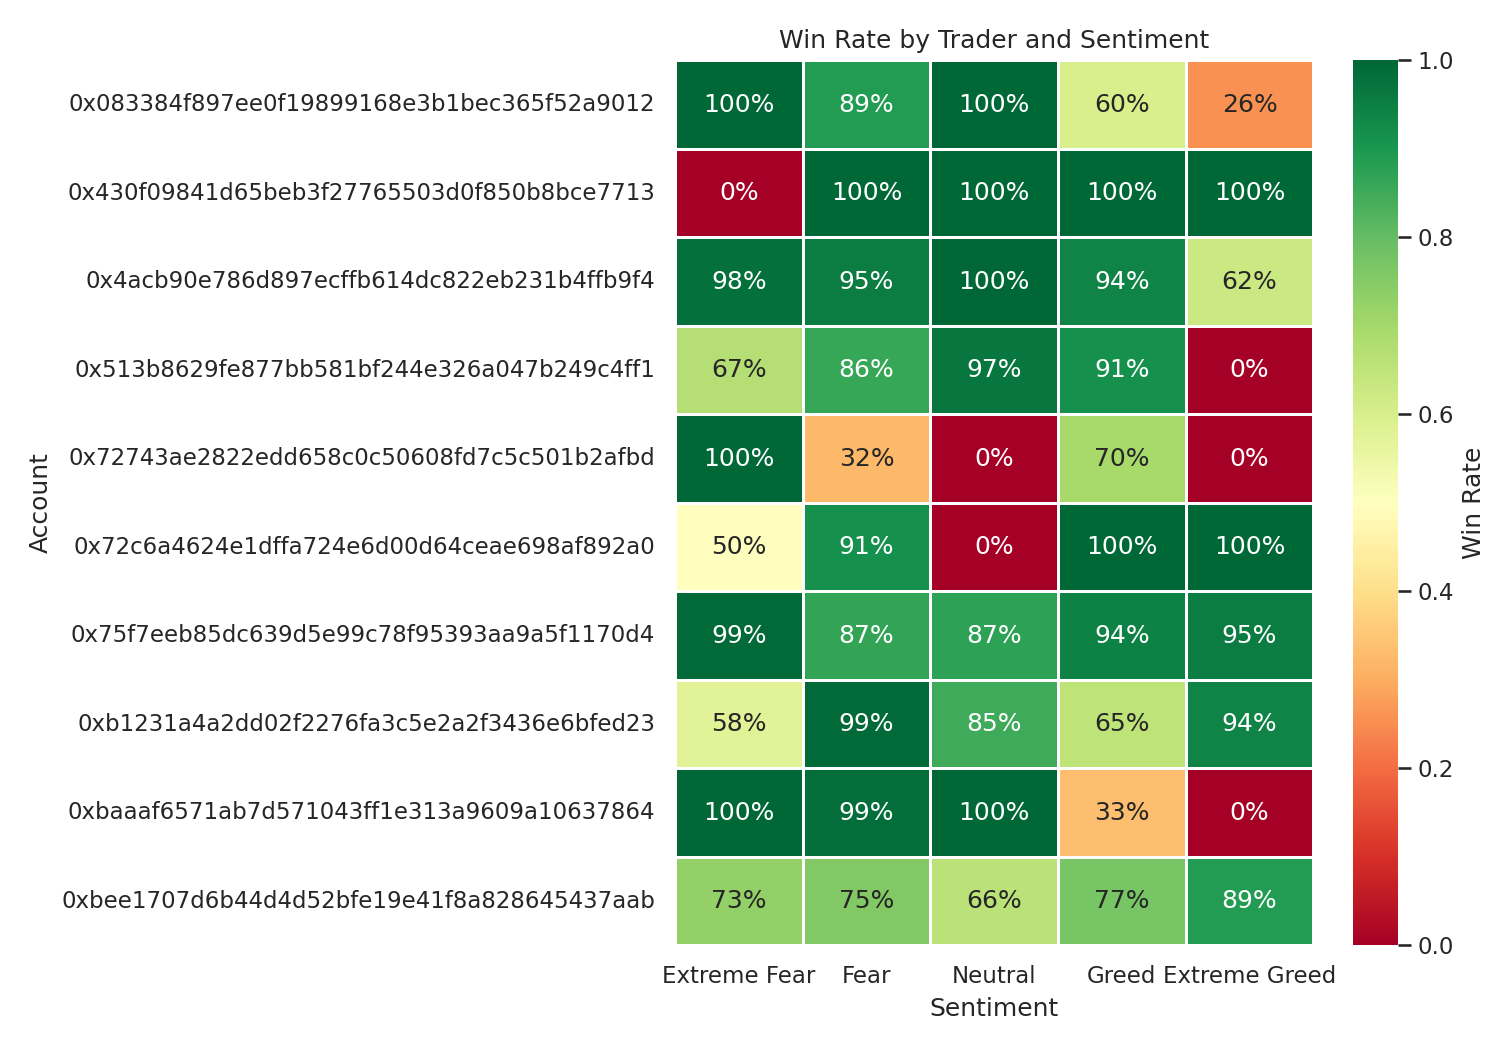
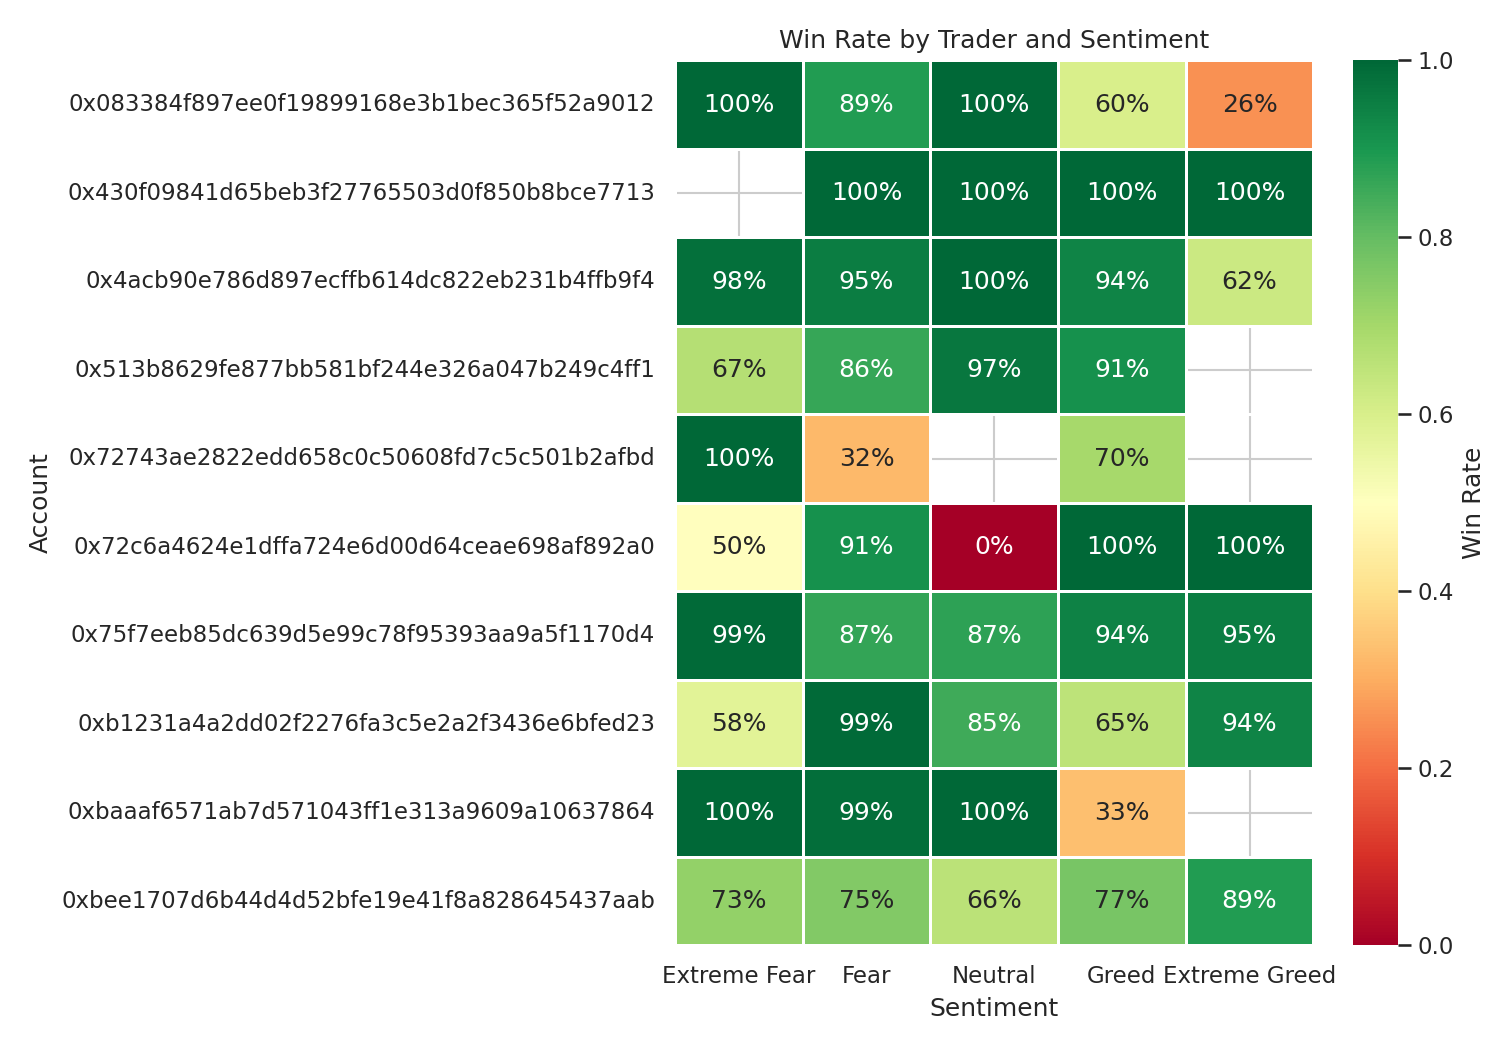
Fix: Correctly mask NaN values in trader heatmap

diff --git a/src/analysis.py b/src/analysis.py
@@ -184,14 +184,14 @@ top_accounts = top10.index.tolist()
 a6 = closed[closed["account"].isin(top_accounts)].copy()
 a6["is_win"] = a6["closed_pnl"] > 0
 
-pivot = a6.groupby(["account", "classification"])["is_win"].mean().unstack(fill_value=0)
-pivot = pivot.reindex(columns=sentiment_order, fill_value=0)
+pivot = a6.groupby(["account", "classification"])["is_win"].mean().unstack()
+pivot = pivot.reindex(columns=sentiment_order)
 
 print(pivot.to_string(float_format=lambda x: f"{x:.2%}"))
 
 fig, ax = plt.subplots(figsize=(10, max(6, len(top_accounts) * 0.5 + 2)))
-sns.heatmap(pivot, annot=True, fmt=".0%", cmap="RdYlGn", cbar_kws={"label": "Win Rate"},
-            linewidths=0.5, ax=ax, vmin=0, vmax=1)
+sns.heatmap(pivot, annot=True, fmt=".0%", cmap="RdYlGn", mask=pivot.isnull(),
+            cbar_kws={"label": "Win Rate"}, linewidths=0.5, ax=ax, vmin=0, vmax=1)
 ax.set_title("Win Rate by Trader and Sentiment")
 ax.set_xlabel("Sentiment")
 ax.set_ylabel("Account")
